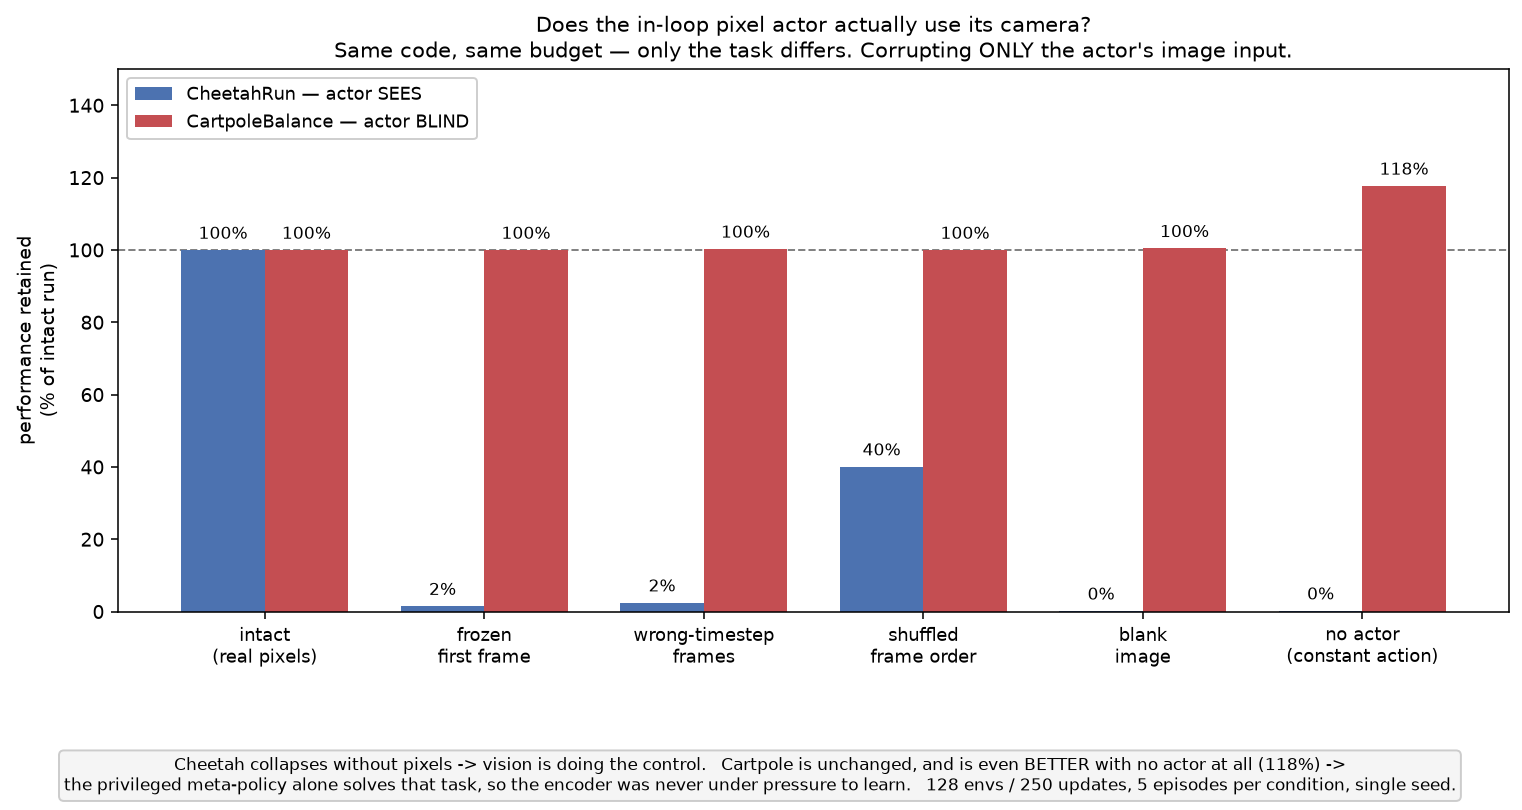
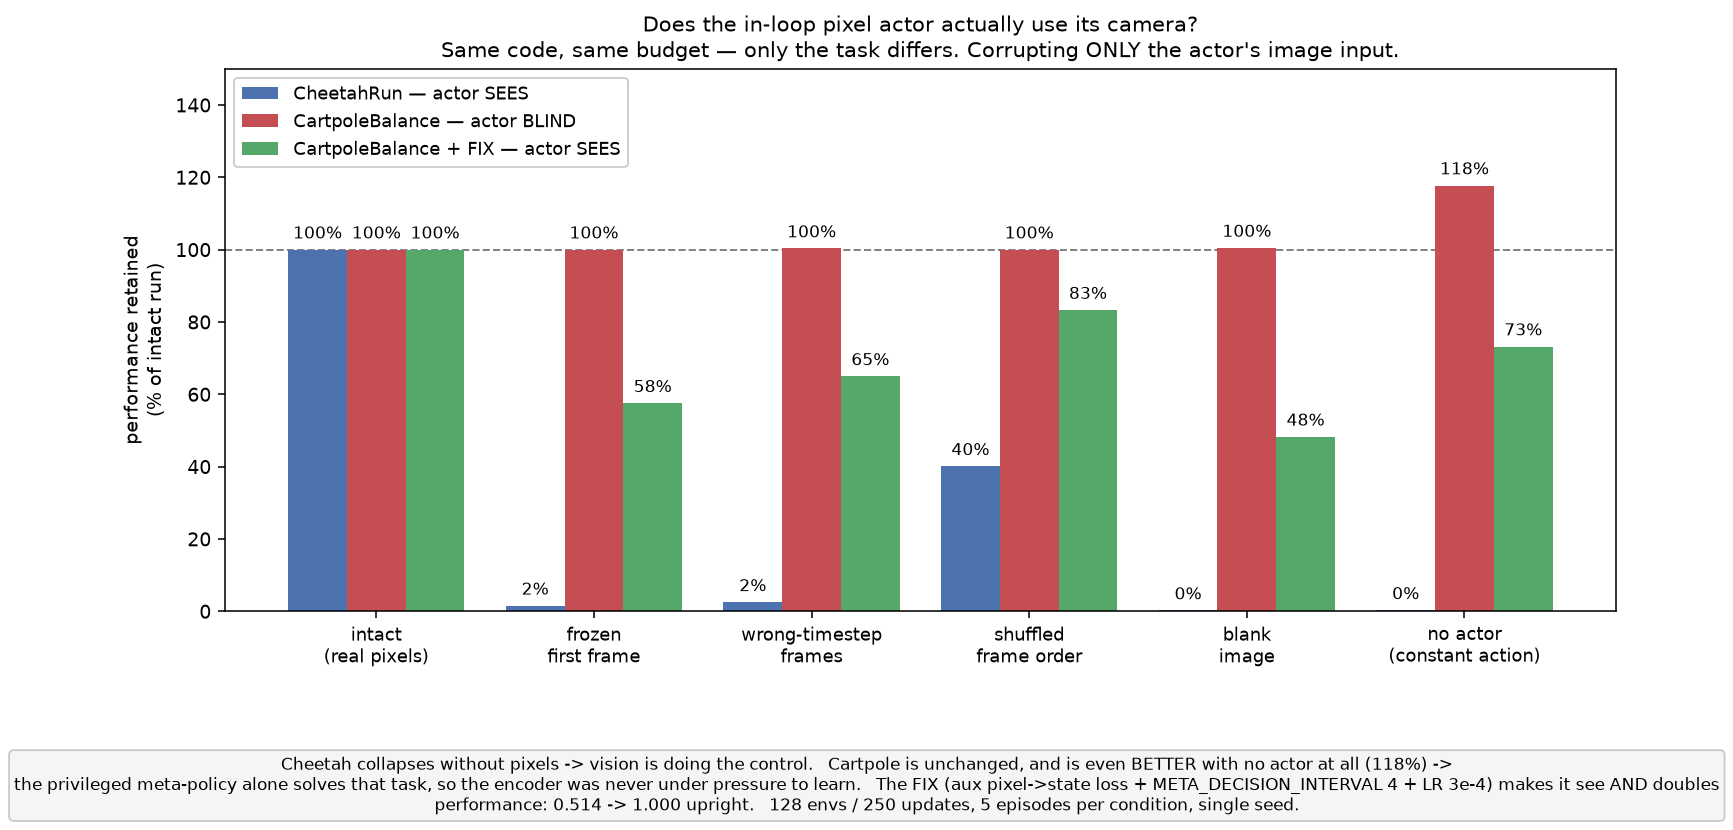
RGB: the fix works -- cartpole actor now uses its camera, and doubles score
cartpole_aux = same env, same budget, same ablation protocol, but trained with
RGB_AUX_STATE_COEF 1.0 (dense pixel->state supervision on the CNN latent),
META_DECISION_INTERVAL 4 (meta cannot compensate every step) and LR 3e-4.

  condition        blind run    fixed run
  intact           0.514        1.000     <- perfect upright fraction
  frozen_first     0.514        0.575     (-42.5%)
  random_replay    0.516        0.650     (-35.0%)
  shuffle_frames   0.514        0.833     (-16.7%)
  zeros            0.517        0.482     (-51.8%)
  const_action     0.606 BETTER 0.732     (-26.8%)
  training return  8.15         24.42

Corrupting the image now costs 35-52% instead of 0.9%, so the encoder is
genuinely in the control loop; and const_action flipped from an 18% IMPROVEMENT
to a 27% loss. Task performance doubled to a perfect 1.000 upright fraction.

Caveat recorded in the briefing: three changes were made at once, so this run
does not attribute the gain to any single one -- a factorial follow-up would.

Also: comparison.png now plots all three runs on one normalized axis, and the
ablation verdict line no longer prints a fixed parenthetical that contradicted
its own NOT-necessary branch (it now reports the measured const_action cost).

diff --git a/nexus_continuous_control/tools/plot_rgb_ablation_comparison.py b/nexus_continuous_control/tools/plot_rgb_ablation_comparison.py
@@ -47,6 +47,7 @@ def main(argv: list[str] | None = None) -> None:
     for tag, label, color in [
         ("cheetah", "CheetahRun — actor SEES", "#4C72B0"),
         ("cartpole", "CartpoleBalance — actor BLIND", "#C44E52"),
+        ("cartpole_aux", "CartpoleBalance + FIX — actor SEES", "#55A868"),
     ]:
         path = runs / tag / "pixel_ablation.json"
         if not path.exists():
@@ -67,7 +68,7 @@ def main(argv: list[str] | None = None) -> None:
         raise SystemExit("no ablation results found")
 
     x = np.arange(len(CONDITIONS))
-    width = 0.38
+    width = 0.27
     fig, ax = plt.subplots(figsize=(11, 5))
     for i, (label, color, vals, key, base) in enumerate(series):
         off = (i - (len(series) - 1) / 2) * width
@@ -92,7 +93,8 @@ def main(argv: list[str] | None = None) -> None:
              "Cheetah collapses without pixels -> vision is doing the control.   "
              "Cartpole is unchanged, and is even BETTER with no actor at all (118%) ->\n"
              "the privileged meta-policy alone solves that task, so the encoder was never "
-             "under pressure to learn.   128 envs / 250 updates, 5 episodes per condition, single seed.",
+             "under pressure to learn.   The FIX (aux pixel->state loss + META_DECISION_INTERVAL 4 + LR 3e-4) makes it see AND doubles\n"
+             "performance: 0.514 -> 1.000 upright.   128 envs / 250 updates, 5 episodes per condition, single seed.",
              ha="center", va="top", fontsize=8.5,
              bbox=dict(boxstyle="round", fc="#F5F5F5", ec="#CCCCCC"))
     fig.tight_layout()

diff --git a/nexus_continuous_control/nexus_continuous/scripts/rgb_pixel_ablation.py b/nexus_continuous_control/nexus_continuous/scripts/rgb_pixel_ablation.py
@@ -381,7 +381,8 @@ def main(argv: list[str] | None = None) -> None:
     print(f"\n  actor USES the pixels          : {'YES' if uses_pixels else 'NO -- claim unsupported'}"
           "   (all pixel corruptions cost >30%)")
     print(f"  pixel-conditioned variation is : {'NECESSARY' if needs_variation else 'NOT necessary'}"
-          "   (meta + constant actions is not enough)")
+          f"   (dropping the actor for a constant action costs "
+          f"{100 * drops['const_action']:.1f}%)")
     print(f"  uses MOTION, not just a pose   : {'YES' if verdict['motion_sensitive'] else 'weak/no'}"
           "   (frame-shuffle costs >15%)")
 
